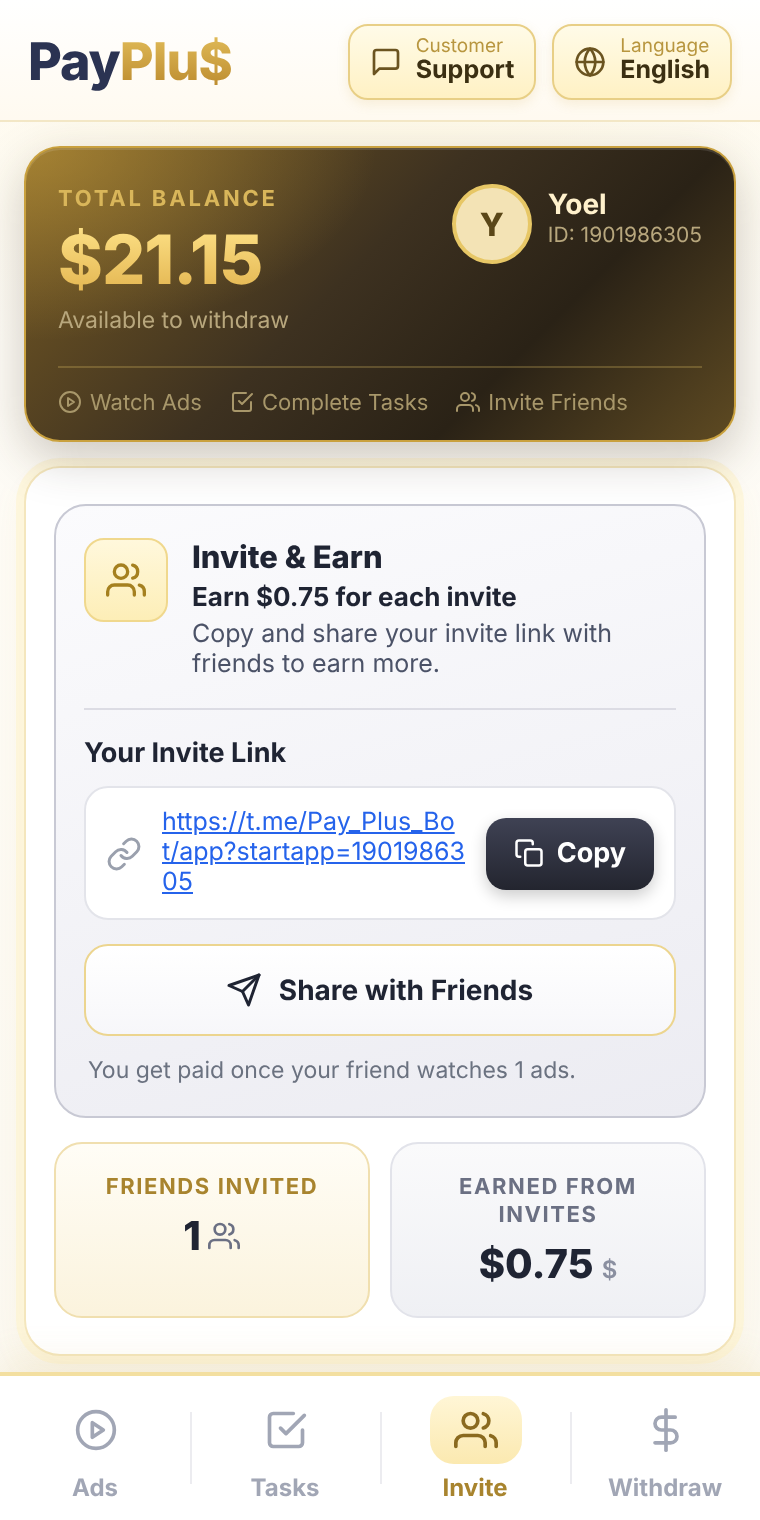
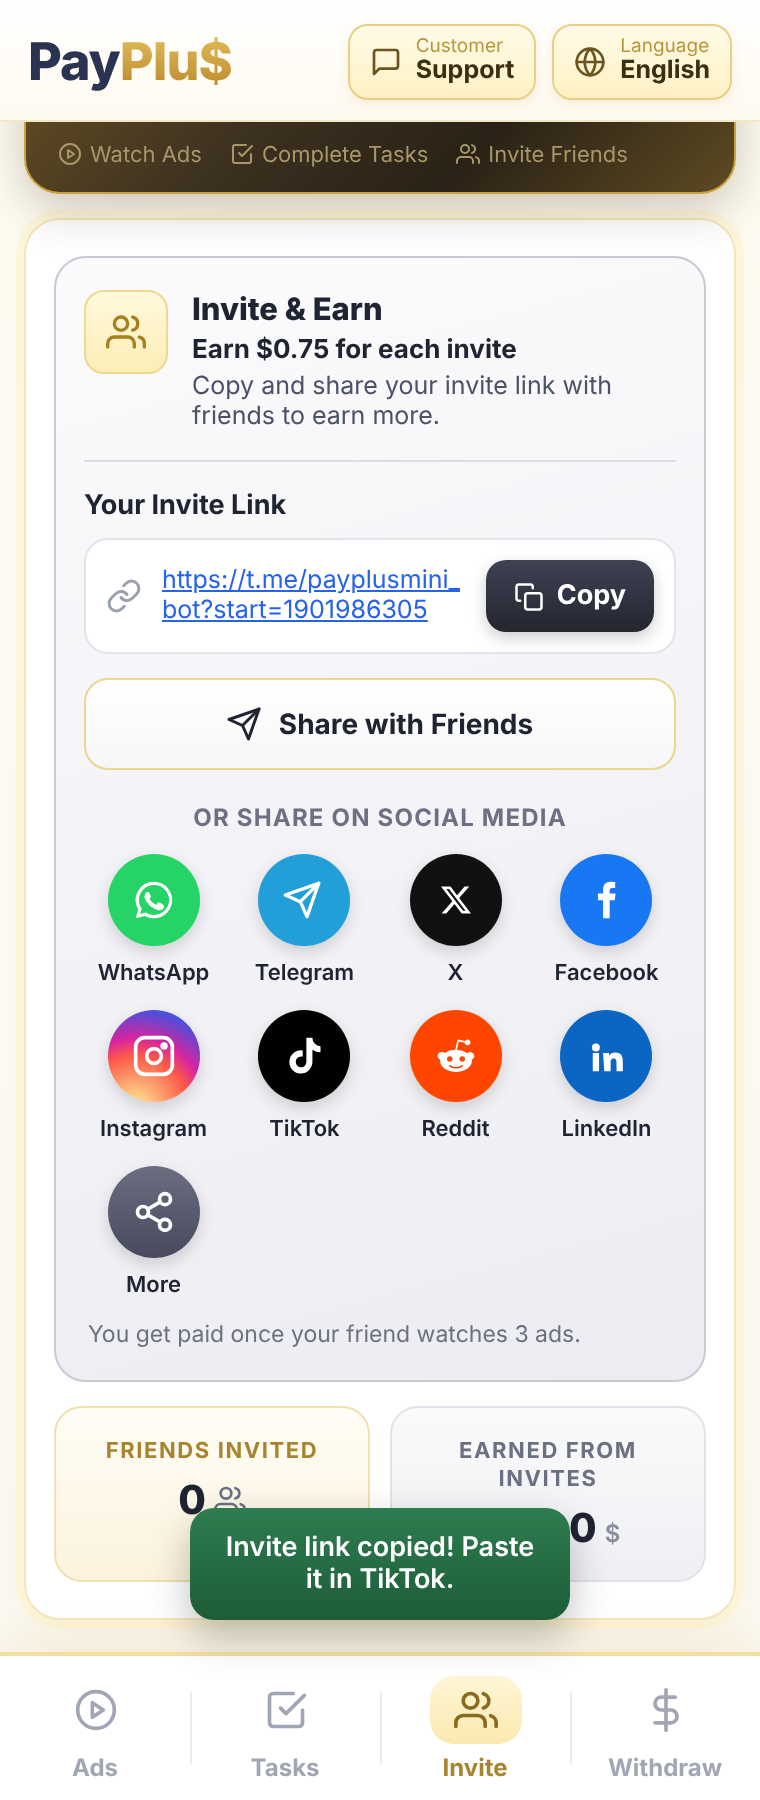
Invite: share buttons for WhatsApp, Telegram, X, Facebook, Instagram, TikTok, Reddit, LinkedIn
Instagram/TikTok have no web share URL, so the invite message is copied and the app opened.

Claude-Session: https://claude.ai/code/session_01KNAPJuQHo77tuubEcPcuLN

diff --git a/demo/index.html b/demo/index.html
@@ -331,6 +331,27 @@ button { font: inherit; cursor: pointer; border: 0; background: none; color: inh
 .task-item-text small { font-size: 11.5px; font-weight: 700; color: #a8842e; }
 .gold-btn.sm { min-width: 84px; padding: 8px 12px; font-size: 13px; border-radius: 9px; }
 
+/* social share */
+.share-label { margin: 16px 2px 10px; font-size: 12px; font-weight: 700; letter-spacing: .6px; text-transform: uppercase; color: #6b7083; text-align: center; }
+.share-grid { display: grid; grid-template-columns: repeat(4, 1fr); gap: 10px 6px; }
+.share-btn { display: flex; flex-direction: column; align-items: center; gap: 6px; font-size: 11px; font-weight: 600; color: var(--ink); }
+.share-btn i { font-style: normal; }
+.share-btn:active .s-ic { transform: scale(.92); }
+.s-ic { width: 46px; height: 46px; border-radius: 50%; display: grid; place-items: center; color: #fff; box-shadow: 0 3px 8px rgba(0,0,0,.15); transition: transform .1s; }
+.s-ic svg { width: 22px; height: 22px; }
+.s-ic.whatsapp { background: #25d366; }
+.s-ic.telegram { background: #229ed9; }
+.s-ic.telegram svg { width: 20px; height: 20px; margin-right: 2px; }
+.s-ic.xs { background: #111; }
+.s-ic.xs svg { width: 18px; height: 18px; }
+.s-ic.facebook { background: #1877f2; }
+.s-ic.instagram { background: radial-gradient(circle at 30% 107%, #fdf497 0%, #fd5949 45%, #d6249f 60%, #285aeb 90%); }
+.s-ic.tiktok { background: #010101; }
+.s-ic.reddit { background: #ff4500; }
+.s-ic.linkedin { background: #0a66c2; }
+.s-ic.linkedin svg { width: 19px; height: 19px; }
+.s-ic.more { background: linear-gradient(180deg, #6b6e80, #474a5c); }
+
 .demo-banner{position:fixed;top:0;left:50%;transform:translateX(-50%);z-index:90;background:#23252f;color:#ffe48a;font:600 11px Inter,sans-serif;padding:4px 10px;border-radius:0 0 10px 10px;white-space:nowrap}.demo-banner button{color:#fff;text-decoration:underline;font-size:11px;padding:0 0 0 4px}.topbar{padding-top:26px}</style>
 </head>
 <body>
@@ -436,6 +457,18 @@ button { font: inherit; cursor: pointer; border: 0; background: none; color: inh
             <button class="dark-btn" id="copyBtn"><svg class="ic"><use href="#i-copy"/></svg><span data-i18n="copy">Copy</span></button>
           </div>
           <button class="outline-btn" id="shareBtn"><svg class="ic"><use href="#i-send"/></svg><span data-i18n="shareWithFriends">Share with Friends</span></button>
+          <div class="share-label" data-i18n="shareOnSocial">Or share on social media</div>
+          <div class="share-grid">
+            <button class="share-btn" data-share="whatsapp"><span class="s-ic whatsapp"><svg><use href="#i-whatsapp"/></svg></span>WhatsApp</button>
+            <button class="share-btn" data-share="telegram"><span class="s-ic telegram"><svg><use href="#i-send"/></svg></span>Telegram</button>
+            <button class="share-btn" data-share="x"><span class="s-ic xs"><svg><use href="#i-x"/></svg></span>X</button>
+            <button class="share-btn" data-share="facebook"><span class="s-ic facebook"><svg><use href="#i-facebook"/></svg></span>Facebook</button>
+            <button class="share-btn" data-share="instagram"><span class="s-ic instagram"><svg><use href="#i-instagram"/></svg></span>Instagram</button>
+            <button class="share-btn" data-share="tiktok"><span class="s-ic tiktok"><svg><use href="#i-tiktok"/></svg></span>TikTok</button>
+            <button class="share-btn" data-share="reddit"><span class="s-ic reddit"><svg><use href="#i-reddit"/></svg></span>Reddit</button>
+            <button class="share-btn" data-share="linkedin"><span class="s-ic linkedin"><svg><use href="#i-linkedin"/></svg></span>LinkedIn</button>
+            <button class="share-btn" data-share="more" id="shareMore" hidden><span class="s-ic more"><svg><use href="#i-share"/></svg></span><i data-i18n="more">More</i></button>
+          </div>
           <p class="hint" id="refHint"></p>
         </div>
         <div class="stats">
@@ -558,6 +591,10 @@ button { font: inherit; cursor: pointer; border: 0; background: none; color: inh
       <symbol id="i-instagram" viewBox="0 0 24 24" fill="none" stroke="currentColor" stroke-width="2" stroke-linecap="round" stroke-linejoin="round"><rect x="2" y="2" width="20" height="20" rx="5"/><circle cx="12" cy="12" r="4"/><circle cx="17.5" cy="6.5" r="1" fill="currentColor"/></symbol>
       <symbol id="i-tiktok" viewBox="0 0 24 24" fill="currentColor"><path d="M16.6 2h-3.3v13.2a2.9 2.9 0 1 1-2.9-2.9c.3 0 .6 0 .9.1V9a6.3 6.3 0 1 0 5.3 6.2V8.6a7.9 7.9 0 0 0 4.4 1.4V6.7a4.6 4.6 0 0 1-4.4-4.7z"/></symbol>
       <symbol id="i-facebook" viewBox="0 0 24 24" fill="currentColor"><path d="M14 8.5V6.7c0-.8.2-1.3 1.4-1.3H17V2.2c-.3 0-1.3-.2-2.5-.2-2.5 0-4.1 1.5-4.1 4.2v2.3H7.6v3.6h2.8V22H14v-9.9h2.8l.4-3.6H14z"/></symbol>
+      <symbol id="i-whatsapp" viewBox="0 0 24 24" fill="currentColor"><path d="M12 2a10 10 0 0 0-8.6 15.1L2 22l5-1.3A10 10 0 1 0 12 2zm0 18.2a8.2 8.2 0 0 1-4.2-1.2l-.3-.2-3 .8.8-2.9-.2-.3A8.2 8.2 0 1 1 12 20.2zm4.5-6.1c-.2-.1-1.5-.7-1.7-.8-.2-.1-.4-.1-.6.1l-.8 1c-.1.2-.3.2-.5.1a6.7 6.7 0 0 1-3.3-2.9c-.2-.4.2-.4.7-1.3.1-.2 0-.3 0-.4l-.8-1.8c-.2-.5-.4-.4-.6-.4h-.5a1 1 0 0 0-.7.3 3 3 0 0 0-.9 2.2 5.2 5.2 0 0 0 1.1 2.7 11.8 11.8 0 0 0 4.5 4c1.7.7 2.3.8 3.2.6.5-.1 1.5-.6 1.7-1.2.2-.6.2-1.1.2-1.2-.1-.1-.3-.2-.5-.3z"/></symbol>
+      <symbol id="i-reddit" viewBox="0 0 24 24" fill="currentColor"><path d="M22 12.1a2.2 2.2 0 0 0-3.7-1.6 10.8 10.8 0 0 0-5.8-1.8l1-4.6 3.2.7a1.6 1.6 0 1 0 .2-1l-3.6-.8a.5.5 0 0 0-.6.4l-1.1 5.2a10.8 10.8 0 0 0-5.9 1.8 2.2 2.2 0 1 0-2.4 3.6v.6c0 3.4 3.9 6.1 8.7 6.1s8.7-2.7 8.7-6.1v-.6a2.2 2.2 0 0 0 1.3-1.9zM7.1 13.6a1.5 1.5 0 1 1 1.5 1.5 1.5 1.5 0 0 1-1.5-1.5zm8.6 4.1a5.6 5.6 0 0 1-3.7 1.1 5.6 5.6 0 0 1-3.7-1.1.4.4 0 0 1 .6-.6 4.8 4.8 0 0 0 3.1.9 4.8 4.8 0 0 0 3.1-.9.4.4 0 1 1 .6.6zm-.3-2.6a1.5 1.5 0 1 1 1.5-1.5 1.5 1.5 0 0 1-1.5 1.5z"/></symbol>
+      <symbol id="i-linkedin" viewBox="0 0 24 24" fill="currentColor"><path d="M4.98 3.5a2.5 2.5 0 1 1 0 5 2.5 2.5 0 0 1 0-5zM3 9.5h4V21H3zM9.5 9.5h3.8v1.6h.1c.5-1 1.8-2 3.8-2 4 0 4.8 2.6 4.8 6V21h-4v-5.2c0-1.2 0-2.8-1.7-2.8s-2 1.3-2 2.7V21h-4z"/></symbol>
+      <symbol id="i-share" viewBox="0 0 24 24" fill="none" stroke="currentColor" stroke-width="2" stroke-linecap="round" stroke-linejoin="round"><circle cx="18" cy="5" r="3"/><circle cx="6" cy="12" r="3"/><circle cx="18" cy="19" r="3"/><line x1="8.6" y1="13.5" x2="15.4" y2="17.5"/><line x1="15.4" y1="6.5" x2="8.6" y2="10.5"/></symbol>
       <symbol id="i-check" viewBox="0 0 24 24" fill="none" stroke="currentColor" stroke-width="3" stroke-linecap="round" stroke-linejoin="round"><polyline points="20 6 9 17 4 12"/></symbol>
       <symbol id="i-phone" viewBox="0 0 24 24" fill="none" stroke="currentColor" stroke-width="2" stroke-linecap="round" stroke-linejoin="round"><rect x="6" y="2" width="12" height="20" rx="2"/><path d="M11 18h2M9.5 11l2 2 3-4"/></symbol>
       <symbol id="i-tether" viewBox="0 0 24 24" fill="currentColor"><path d="M5 4h14v3.4h-5.2v2.2c3.6.2 6.2.9 6.2 1.8s-2.6 1.6-6.2 1.8V20h-3.6v-6.8C6.6 13 4 12.3 4 11.4s2.6-1.6 6.2-1.8V7.4H5V4zm5.2 7v1.2c.6 0 1.2.1 1.8.1s1.2 0 1.8-.1V11c-.6 0-1.2-.1-1.8-.1s-1.2 0-1.8.1zm-1.4-.1c-1.5.2-2.6.4-2.6.6 0 .3 1.1.5 2.6.6v-1.2zm6.4 0v1.2c1.5-.2 2.6-.4 2.6-.6s-1.1-.5-2.6-.6z"/></symbol>
@@ -684,7 +721,7 @@ window.I18N = {
     taskStartedHint: 'Complete the task, then come back and tap Check.',
     inviteEarn: 'Invite & Earn', forEachInvite: 'for each invite',
     inviteSub: 'Copy and share your invite link with friends to earn more.',
-    yourInviteLink: 'Your Invite Link', copy: 'Copy', copied: 'Copied!', shareWithFriends: 'Share with Friends',
+    yourInviteLink: 'Your Invite Link', copy: 'Copy', copied: 'Copied!', shareWithFriends: 'Share with Friends', shareOnSocial: 'Or share on social media', more: 'More', copiedPasteIn: 'Invite link copied! Paste it in {app}.',
     refHint: 'You get paid once your friend watches {n} ads.',
     shareText: '💰 Join me on PayPlus and earn money by watching ads and completing simple tasks!',
     friendsInvited: 'Friends Invited', earnedFromInvites: 'Earned From Invites',
@@ -718,7 +755,7 @@ window.I18N = {
     taskStartedHint: 'Kamilisha kazi, kisha urudi ubonyeze Hakiki.',
     inviteEarn: 'Alika & Upate', forEachInvite: 'kwa kila mwaliko',
     inviteSub: 'Nakili na utume kiungo chako kwa marafiki upate zaidi.',
-    yourInviteLink: 'Kiungo Chako cha Mwaliko', copy: 'Nakili', copied: 'Imenakiliwa!', shareWithFriends: 'Shiriki na Marafiki',
+    yourInviteLink: 'Kiungo Chako cha Mwaliko', copy: 'Nakili', copied: 'Imenakiliwa!', shareWithFriends: 'Shiriki na Marafiki', shareOnSocial: 'Au shiriki kwenye mitandao ya kijamii', more: 'Zaidi', copiedPasteIn: 'Kiungo kimenakiliwa! Kibandike kwenye {app}.',
     refHint: 'Unalipwa rafiki yako akishatazama matangazo {n}.',
     shareText: '💰 Jiunge nami PayPlus upate pesa kwa kutazama matangazo na kukamilisha kazi rahisi!',
     friendsInvited: 'Marafiki Walioalikwa', earnedFromInvites: 'Mapato ya Mialiko',
@@ -752,7 +789,7 @@ window.I18N = {
     taskStartedHint: 'Terminez la tâche puis appuyez sur Vérifier.',
     inviteEarn: 'Invitez & gagnez', forEachInvite: 'par invitation',
     inviteSub: 'Copiez et partagez votre lien pour gagner plus.',
-    yourInviteLink: "Votre lien d'invitation", copy: 'Copier', copied: 'Copié !', shareWithFriends: 'Partager avec des amis',
+    yourInviteLink: "Votre lien d'invitation", copy: 'Copier', copied: 'Copié !', shareWithFriends: 'Partager avec des amis', shareOnSocial: 'Ou partagez sur les réseaux sociaux', more: 'Plus', copiedPasteIn: "Lien copié ! Collez-le dans {app}.",
     refHint: 'Vous êtes payé quand votre ami a regardé {n} pubs.',
     shareText: '💰 Rejoins-moi sur PayPlus et gagne de l’argent en regardant des pubs !',
     friendsInvited: 'Amis invités', earnedFromInvites: 'Gains des invitations',
@@ -1106,19 +1143,51 @@ window.I18N = {
   };
 
   // ------------------------------------------------------------ invite
-  $('#copyBtn').onclick = async () => {
-    const link = S.invite.link;
-    try { await navigator.clipboard.writeText(link); } catch {
-      const ta = document.createElement('textarea'); ta.value = link; document.body.appendChild(ta); ta.select();
-      document.execCommand('copy'); ta.remove();
+  async function copyText(text) {
+    try { await navigator.clipboard.writeText(text); return true; } catch {
+      try {
+        const ta = document.createElement('textarea'); ta.value = text; ta.style.position = 'fixed'; ta.style.opacity = '0';
+        document.body.appendChild(ta); ta.select(); const ok = document.execCommand('copy'); ta.remove(); return ok;
+      } catch { return false; }
     }
+  }
+
+  $('#copyBtn').onclick = async () => {
+    await copyText(S.invite.link);
     haptic('success');
     toast(t('copied'), 'success');
   };
-  $('#shareBtn').onclick = () => {
-    const url = `https://t.me/share/url?url=${encodeURIComponent(S.invite.link)}&text=${encodeURIComponent(t('shareText'))}`;
-    openLink(url);
+  $('#shareBtn').onclick = () => share('telegram');
+
+  // Social sharing. Instagram and TikTok have no "share a link" web address, so we copy the message and open the app.
+  const SHARE = {
+    whatsapp: (l, m) => `https://wa.me/?text=${encodeURIComponent(`${m}\n${l}`)}`,
+    telegram: (l, m) => `https://t.me/share/url?url=${encodeURIComponent(l)}&text=${encodeURIComponent(m)}`,
+    x:        (l, m) => `https://twitter.com/intent/tweet?text=${encodeURIComponent(m)}&url=${encodeURIComponent(l)}`,
+    facebook: (l)    => `https://www.facebook.com/sharer/sharer.php?u=${encodeURIComponent(l)}`,
+    reddit:   (l, m) => `https://www.reddit.com/submit?url=${encodeURIComponent(l)}&title=${encodeURIComponent(m)}`,
+    linkedin: (l)    => `https://www.linkedin.com/sharing/share-offsite/?url=${encodeURIComponent(l)}`,
   };
+  const COPY_AND_OPEN = { instagram: ['Instagram', 'https://www.instagram.com/'], tiktok: ['TikTok', 'https://www.tiktok.com/'] };
+
+  async function share(net) {
+    const link = S.invite.link;
+    const msg = t('shareText');
+    if (SHARE[net]) return openLink(SHARE[net](link, msg));
+    if (COPY_AND_OPEN[net]) {
+      const [name, url] = COPY_AND_OPEN[net];
+      await copyText(`${msg}\n${link}`);
+      haptic('success');
+      toast(t('copiedPasteIn', { app: name }), 'success');
+      setTimeout(() => openLink(url), 1200);
+      return;
+    }
+    if (net === 'more' && navigator.share) {
+      try { await navigator.share({ title: 'PayPlus', text: msg, url: link }); } catch {}
+    }
+  }
+  $$('[data-share]').forEach((b) => (b.onclick = () => share(b.dataset.share)));
+  if (navigator.share) $('#shareMore').hidden = false;
 
   // ------------------------------------------------------------ withdraw
   const METHOD_FIELDS = {

diff --git a/public/index.html b/public/index.html
@@ -113,6 +113,18 @@
             <button class="dark-btn" id="copyBtn"><svg class="ic"><use href="#i-copy"/></svg><span data-i18n="copy">Copy</span></button>
           </div>
           <button class="outline-btn" id="shareBtn"><svg class="ic"><use href="#i-send"/></svg><span data-i18n="shareWithFriends">Share with Friends</span></button>
+          <div class="share-label" data-i18n="shareOnSocial">Or share on social media</div>
+          <div class="share-grid">
+            <button class="share-btn" data-share="whatsapp"><span class="s-ic whatsapp"><svg><use href="#i-whatsapp"/></svg></span>WhatsApp</button>
+            <button class="share-btn" data-share="telegram"><span class="s-ic telegram"><svg><use href="#i-send"/></svg></span>Telegram</button>
+            <button class="share-btn" data-share="x"><span class="s-ic xs"><svg><use href="#i-x"/></svg></span>X</button>
+            <button class="share-btn" data-share="facebook"><span class="s-ic facebook"><svg><use href="#i-facebook"/></svg></span>Facebook</button>
+            <button class="share-btn" data-share="instagram"><span class="s-ic instagram"><svg><use href="#i-instagram"/></svg></span>Instagram</button>
+            <button class="share-btn" data-share="tiktok"><span class="s-ic tiktok"><svg><use href="#i-tiktok"/></svg></span>TikTok</button>
+            <button class="share-btn" data-share="reddit"><span class="s-ic reddit"><svg><use href="#i-reddit"/></svg></span>Reddit</button>
+            <button class="share-btn" data-share="linkedin"><span class="s-ic linkedin"><svg><use href="#i-linkedin"/></svg></span>LinkedIn</button>
+            <button class="share-btn" data-share="more" id="shareMore" hidden><span class="s-ic more"><svg><use href="#i-share"/></svg></span><i data-i18n="more">More</i></button>
+          </div>
           <p class="hint" id="refHint"></p>
         </div>
         <div class="stats">
@@ -235,6 +247,10 @@
       <symbol id="i-instagram" viewBox="0 0 24 24" fill="none" stroke="currentColor" stroke-width="2" stroke-linecap="round" stroke-linejoin="round"><rect x="2" y="2" width="20" height="20" rx="5"/><circle cx="12" cy="12" r="4"/><circle cx="17.5" cy="6.5" r="1" fill="currentColor"/></symbol>
       <symbol id="i-tiktok" viewBox="0 0 24 24" fill="currentColor"><path d="M16.6 2h-3.3v13.2a2.9 2.9 0 1 1-2.9-2.9c.3 0 .6 0 .9.1V9a6.3 6.3 0 1 0 5.3 6.2V8.6a7.9 7.9 0 0 0 4.4 1.4V6.7a4.6 4.6 0 0 1-4.4-4.7z"/></symbol>
       <symbol id="i-facebook" viewBox="0 0 24 24" fill="currentColor"><path d="M14 8.5V6.7c0-.8.2-1.3 1.4-1.3H17V2.2c-.3 0-1.3-.2-2.5-.2-2.5 0-4.1 1.5-4.1 4.2v2.3H7.6v3.6h2.8V22H14v-9.9h2.8l.4-3.6H14z"/></symbol>
+      <symbol id="i-whatsapp" viewBox="0 0 24 24" fill="currentColor"><path d="M12 2a10 10 0 0 0-8.6 15.1L2 22l5-1.3A10 10 0 1 0 12 2zm0 18.2a8.2 8.2 0 0 1-4.2-1.2l-.3-.2-3 .8.8-2.9-.2-.3A8.2 8.2 0 1 1 12 20.2zm4.5-6.1c-.2-.1-1.5-.7-1.7-.8-.2-.1-.4-.1-.6.1l-.8 1c-.1.2-.3.2-.5.1a6.7 6.7 0 0 1-3.3-2.9c-.2-.4.2-.4.7-1.3.1-.2 0-.3 0-.4l-.8-1.8c-.2-.5-.4-.4-.6-.4h-.5a1 1 0 0 0-.7.3 3 3 0 0 0-.9 2.2 5.2 5.2 0 0 0 1.1 2.7 11.8 11.8 0 0 0 4.5 4c1.7.7 2.3.8 3.2.6.5-.1 1.5-.6 1.7-1.2.2-.6.2-1.1.2-1.2-.1-.1-.3-.2-.5-.3z"/></symbol>
+      <symbol id="i-reddit" viewBox="0 0 24 24" fill="currentColor"><path d="M22 12.1a2.2 2.2 0 0 0-3.7-1.6 10.8 10.8 0 0 0-5.8-1.8l1-4.6 3.2.7a1.6 1.6 0 1 0 .2-1l-3.6-.8a.5.5 0 0 0-.6.4l-1.1 5.2a10.8 10.8 0 0 0-5.9 1.8 2.2 2.2 0 1 0-2.4 3.6v.6c0 3.4 3.9 6.1 8.7 6.1s8.7-2.7 8.7-6.1v-.6a2.2 2.2 0 0 0 1.3-1.9zM7.1 13.6a1.5 1.5 0 1 1 1.5 1.5 1.5 1.5 0 0 1-1.5-1.5zm8.6 4.1a5.6 5.6 0 0 1-3.7 1.1 5.6 5.6 0 0 1-3.7-1.1.4.4 0 0 1 .6-.6 4.8 4.8 0 0 0 3.1.9 4.8 4.8 0 0 0 3.1-.9.4.4 0 1 1 .6.6zm-.3-2.6a1.5 1.5 0 1 1 1.5-1.5 1.5 1.5 0 0 1-1.5 1.5z"/></symbol>
+      <symbol id="i-linkedin" viewBox="0 0 24 24" fill="currentColor"><path d="M4.98 3.5a2.5 2.5 0 1 1 0 5 2.5 2.5 0 0 1 0-5zM3 9.5h4V21H3zM9.5 9.5h3.8v1.6h.1c.5-1 1.8-2 3.8-2 4 0 4.8 2.6 4.8 6V21h-4v-5.2c0-1.2 0-2.8-1.7-2.8s-2 1.3-2 2.7V21h-4z"/></symbol>
+      <symbol id="i-share" viewBox="0 0 24 24" fill="none" stroke="currentColor" stroke-width="2" stroke-linecap="round" stroke-linejoin="round"><circle cx="18" cy="5" r="3"/><circle cx="6" cy="12" r="3"/><circle cx="18" cy="19" r="3"/><line x1="8.6" y1="13.5" x2="15.4" y2="17.5"/><line x1="15.4" y1="6.5" x2="8.6" y2="10.5"/></symbol>
       <symbol id="i-check" viewBox="0 0 24 24" fill="none" stroke="currentColor" stroke-width="3" stroke-linecap="round" stroke-linejoin="round"><polyline points="20 6 9 17 4 12"/></symbol>
       <symbol id="i-phone" viewBox="0 0 24 24" fill="none" stroke="currentColor" stroke-width="2" stroke-linecap="round" stroke-linejoin="round"><rect x="6" y="2" width="12" height="20" rx="2"/><path d="M11 18h2M9.5 11l2 2 3-4"/></symbol>
       <symbol id="i-tether" viewBox="0 0 24 24" fill="currentColor"><path d="M5 4h14v3.4h-5.2v2.2c3.6.2 6.2.9 6.2 1.8s-2.6 1.6-6.2 1.8V20h-3.6v-6.8C6.6 13 4 12.3 4 11.4s2.6-1.6 6.2-1.8V7.4H5V4zm5.2 7v1.2c.6 0 1.2.1 1.8.1s1.2 0 1.8-.1V11c-.6 0-1.2-.1-1.8-.1s-1.2 0-1.8.1zm-1.4-.1c-1.5.2-2.6.4-2.6.6 0 .3 1.1.5 2.6.6v-1.2zm6.4 0v1.2c1.5-.2 2.6-.4 2.6-.6s-1.1-.5-2.6-.6z"/></symbol>

diff --git a/public/app.js b/public/app.js
@@ -335,19 +335,51 @@
   };
 
   // ------------------------------------------------------------ invite
-  $('#copyBtn').onclick = async () => {
-    const link = S.invite.link;
-    try { await navigator.clipboard.writeText(link); } catch {
-      const ta = document.createElement('textarea'); ta.value = link; document.body.appendChild(ta); ta.select();
-      document.execCommand('copy'); ta.remove();
+  async function copyText(text) {
+    try { await navigator.clipboard.writeText(text); return true; } catch {
+      try {
+        const ta = document.createElement('textarea'); ta.value = text; ta.style.position = 'fixed'; ta.style.opacity = '0';
+        document.body.appendChild(ta); ta.select(); const ok = document.execCommand('copy'); ta.remove(); return ok;
+      } catch { return false; }
     }
+  }
+
+  $('#copyBtn').onclick = async () => {
+    await copyText(S.invite.link);
     haptic('success');
     toast(t('copied'), 'success');
   };
-  $('#shareBtn').onclick = () => {
-    const url = `https://t.me/share/url?url=${encodeURIComponent(S.invite.link)}&text=${encodeURIComponent(t('shareText'))}`;
-    openLink(url);
+  $('#shareBtn').onclick = () => share('telegram');
+
+  // Social sharing. Instagram and TikTok have no "share a link" web address, so we copy the message and open the app.
+  const SHARE = {
+    whatsapp: (l, m) => `https://wa.me/?text=${encodeURIComponent(`${m}\n${l}`)}`,
+    telegram: (l, m) => `https://t.me/share/url?url=${encodeURIComponent(l)}&text=${encodeURIComponent(m)}`,
+    x:        (l, m) => `https://twitter.com/intent/tweet?text=${encodeURIComponent(m)}&url=${encodeURIComponent(l)}`,
+    facebook: (l)    => `https://www.facebook.com/sharer/sharer.php?u=${encodeURIComponent(l)}`,
+    reddit:   (l, m) => `https://www.reddit.com/submit?url=${encodeURIComponent(l)}&title=${encodeURIComponent(m)}`,
+    linkedin: (l)    => `https://www.linkedin.com/sharing/share-offsite/?url=${encodeURIComponent(l)}`,
   };
+  const COPY_AND_OPEN = { instagram: ['Instagram', 'https://www.instagram.com/'], tiktok: ['TikTok', 'https://www.tiktok.com/'] };
+
+  async function share(net) {
+    const link = S.invite.link;
+    const msg = t('shareText');
+    if (SHARE[net]) return openLink(SHARE[net](link, msg));
+    if (COPY_AND_OPEN[net]) {
+      const [name, url] = COPY_AND_OPEN[net];
+      await copyText(`${msg}\n${link}`);
+      haptic('success');
+      toast(t('copiedPasteIn', { app: name }), 'success');
+      setTimeout(() => openLink(url), 1200);
+      return;
+    }
+    if (net === 'more' && navigator.share) {
+      try { await navigator.share({ title: 'PayPlus', text: msg, url: link }); } catch {}
+    }
+  }
+  $$('[data-share]').forEach((b) => (b.onclick = () => share(b.dataset.share)));
+  if (navigator.share) $('#shareMore').hidden = false;
 
   // ------------------------------------------------------------ withdraw
   const METHOD_FIELDS = {

diff --git a/public/i18n.js b/public/i18n.js
@@ -19,7 +19,7 @@ window.I18N = {
     taskStartedHint: 'Complete the task, then come back and tap Check.',
     inviteEarn: 'Invite & Earn', forEachInvite: 'for each invite',
     inviteSub: 'Copy and share your invite link with friends to earn more.',
-    yourInviteLink: 'Your Invite Link', copy: 'Copy', copied: 'Copied!', shareWithFriends: 'Share with Friends',
+    yourInviteLink: 'Your Invite Link', copy: 'Copy', copied: 'Copied!', shareWithFriends: 'Share with Friends', shareOnSocial: 'Or share on social media', more: 'More', copiedPasteIn: 'Invite link copied! Paste it in {app}.',
     refHint: 'You get paid once your friend watches {n} ads.',
     shareText: '💰 Join me on PayPlus and earn money by watching ads and completing simple tasks!',
     friendsInvited: 'Friends Invited', earnedFromInvites: 'Earned From Invites',
@@ -53,7 +53,7 @@ window.I18N = {
     taskStartedHint: 'Kamilisha kazi, kisha urudi ubonyeze Hakiki.',
     inviteEarn: 'Alika & Upate', forEachInvite: 'kwa kila mwaliko',
     inviteSub: 'Nakili na utume kiungo chako kwa marafiki upate zaidi.',
-    yourInviteLink: 'Kiungo Chako cha Mwaliko', copy: 'Nakili', copied: 'Imenakiliwa!', shareWithFriends: 'Shiriki na Marafiki',
+    yourInviteLink: 'Kiungo Chako cha Mwaliko', copy: 'Nakili', copied: 'Imenakiliwa!', shareWithFriends: 'Shiriki na Marafiki', shareOnSocial: 'Au shiriki kwenye mitandao ya kijamii', more: 'Zaidi', copiedPasteIn: 'Kiungo kimenakiliwa! Kibandike kwenye {app}.',
     refHint: 'Unalipwa rafiki yako akishatazama matangazo {n}.',
     shareText: '💰 Jiunge nami PayPlus upate pesa kwa kutazama matangazo na kukamilisha kazi rahisi!',
     friendsInvited: 'Marafiki Walioalikwa', earnedFromInvites: 'Mapato ya Mialiko',
@@ -87,7 +87,7 @@ window.I18N = {
     taskStartedHint: 'Terminez la tâche puis appuyez sur Vérifier.',
     inviteEarn: 'Invitez & gagnez', forEachInvite: 'par invitation',
     inviteSub: 'Copiez et partagez votre lien pour gagner plus.',
-    yourInviteLink: "Votre lien d'invitation", copy: 'Copier', copied: 'Copié !', shareWithFriends: 'Partager avec des amis',
+    yourInviteLink: "Votre lien d'invitation", copy: 'Copier', copied: 'Copié !', shareWithFriends: 'Partager avec des amis', shareOnSocial: 'Ou partagez sur les réseaux sociaux', more: 'Plus', copiedPasteIn: "Lien copié ! Collez-le dans {app}.",
     refHint: 'Vous êtes payé quand votre ami a regardé {n} pubs.',
     shareText: '💰 Rejoins-moi sur PayPlus et gagne de l’argent en regardant des pubs !',
     friendsInvited: 'Amis invités', earnedFromInvites: 'Gains des invitations',

diff --git a/public/styles.css b/public/styles.css
@@ -322,3 +322,24 @@ button { font: inherit; cursor: pointer; border: 0; background: none; color: inh
 .task-item-text span { display: block; overflow: hidden; text-overflow: ellipsis; white-space: nowrap; }
 .task-item-text small { font-size: 11.5px; font-weight: 700; color: #a8842e; }
 .gold-btn.sm { min-width: 84px; padding: 8px 12px; font-size: 13px; border-radius: 9px; }
+
+/* social share */
+.share-label { margin: 16px 2px 10px; font-size: 12px; font-weight: 700; letter-spacing: .6px; text-transform: uppercase; color: #6b7083; text-align: center; }
+.share-grid { display: grid; grid-template-columns: repeat(4, 1fr); gap: 10px 6px; }
+.share-btn { display: flex; flex-direction: column; align-items: center; gap: 6px; font-size: 11px; font-weight: 600; color: var(--ink); }
+.share-btn i { font-style: normal; }
+.share-btn:active .s-ic { transform: scale(.92); }
+.s-ic { width: 46px; height: 46px; border-radius: 50%; display: grid; place-items: center; color: #fff; box-shadow: 0 3px 8px rgba(0,0,0,.15); transition: transform .1s; }
+.s-ic svg { width: 22px; height: 22px; }
+.s-ic.whatsapp { background: #25d366; }
+.s-ic.telegram { background: #229ed9; }
+.s-ic.telegram svg { width: 20px; height: 20px; margin-right: 2px; }
+.s-ic.xs { background: #111; }
+.s-ic.xs svg { width: 18px; height: 18px; }
+.s-ic.facebook { background: #1877f2; }
+.s-ic.instagram { background: radial-gradient(circle at 30% 107%, #fdf497 0%, #fd5949 45%, #d6249f 60%, #285aeb 90%); }
+.s-ic.tiktok { background: #010101; }
+.s-ic.reddit { background: #ff4500; }
+.s-ic.linkedin { background: #0a66c2; }
+.s-ic.linkedin svg { width: 19px; height: 19px; }
+.s-ic.more { background: linear-gradient(180deg, #6b6e80, #474a5c); }
